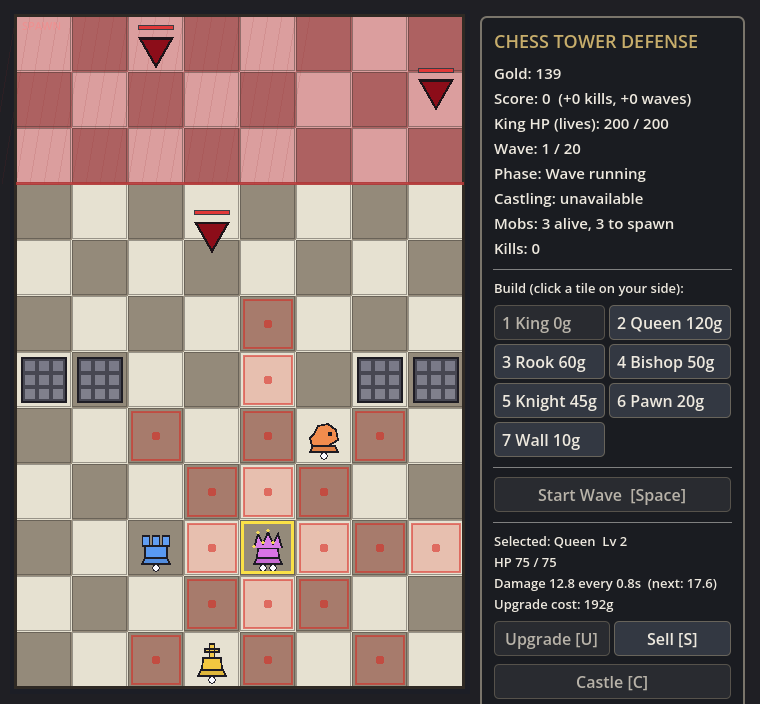
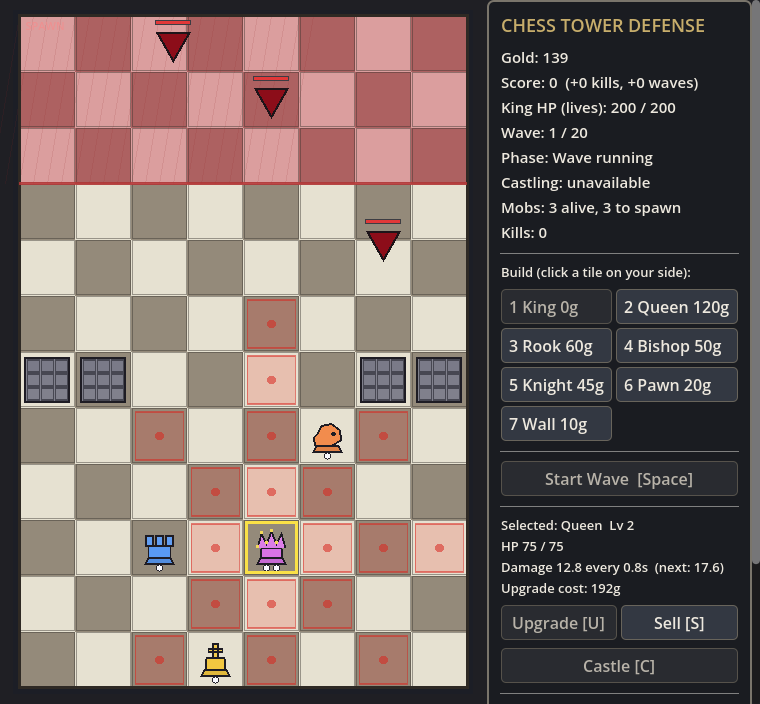
2026-11-17 21:17 AEDT: Responsive layout — resizable window, scaled board, scrollable HUD.

Changed region(s): [[0.0, 0.0, 1.0, 1.0]]

diff --git a/README.md b/README.md
@@ -20,7 +20,7 @@ primitives (rects, circles, polygons, lines) - no image assets. Piece and mob sh
 
 ```
 chess-td/
-├── project.godot          # project config, main scene, 760x704 window
+├── project.godot          # project config, main scene, resizable window + stretch
 ├── scenes/main.tscn       # Main(Node) -> Game(Node2D, game.gd) + UI(CanvasLayer, ui.gd)
 ├── scripts/
 │   ├── pieces.gd          # piece stats + pure chess attack-pattern functions
